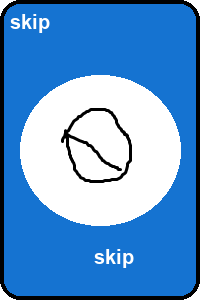
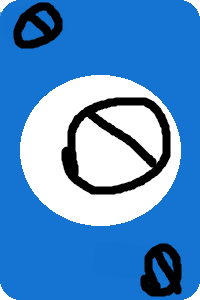
Fixed and finalised uno cards

Changed region(s): [[0.0, 0.0, 1.0, 1.0], [0.3, 0.3, 0.87, 0.66], [0.45, 0.81, 0.69, 0.9]]

diff --git a/tools/generateImages.py b/tools/generateImages.py
@@ -12,30 +12,33 @@ COLORS = {
     "black": "#000000"
 }
 SPECIAL_CARDS = ["skip", "reverse", "+2", "wild", "wild+4"]
-ARROWS_IMAGE_PATH = "arrows.jpg"  # Arrows image path
+ARROWS_IMAGE_PATH = "../uno_cards/arrows.png"  # Arrows image path
 
 def create_base_card(base_color, text, save_path, is_special=False):
     """
-    Creates a base UNO card with rounded corners, center ovals, and proper symbols.
+    Creates a base UNO card with transparent corners, center ovals, and proper symbols.
     Args:
         base_color (str): Card color.
         text (str): Text or symbol to display.
         save_path (str): File path to save the card image.
         is_special (bool): True for special cards like "skip" or "reverse".
     """
-    # Create a blank card image
-    image = Image.new("RGBA", (CARD_WIDTH, CARD_HEIGHT), "white")
+    # Create a blank RGBA card image
+    image = Image.new("RGBA", (CARD_WIDTH, CARD_HEIGHT), (0, 0, 0, 0))
     draw = ImageDraw.Draw(image)
 
-    # Draw card border with rounded corners
-    border_color = "black"
-    draw.rounded_rectangle(
+    # Create a mask for rounded corners
+    mask = Image.new("L", (CARD_WIDTH, CARD_HEIGHT), 0)
+    mask_draw = ImageDraw.Draw(mask)
+    mask_draw.rounded_rectangle(
         [0, 0, CARD_WIDTH - 1, CARD_HEIGHT - 1],
         radius=20,
-        fill=base_color,
-        outline=border_color,
-        width=4
+        fill=255
     )
+
+    # Draw card background with transparent corners
+    card = Image.new("RGBA", (CARD_WIDTH, CARD_HEIGHT), base_color)
+    image.paste(card, (0, 0), mask)
 
     # Add white central oval
     oval_margin = 20
@@ -53,7 +56,7 @@ def create_base_card(base_color, text, save_path, is_special=False):
         font_small = ImageFont.load_default()
 
     # Text color
-    text_color = "black" if base_color == COLORS["yellow"] else "white"
+    text_color = "black"
 
     # Draw large central text
     text_bbox = draw.textbbox((0, 0), text, font=font_large)
@@ -70,7 +73,7 @@ def create_base_card(base_color, text, save_path, is_special=False):
     draw.text((CARD_WIDTH - text_width - corner_offset, CARD_HEIGHT - text_height - corner_offset),
               text, font=font_small, fill=text_color)
 
-    # Save the base card
+    # Save the card
     image.save(save_path)
 
 def overlay_arrows_on_reverse(card_image_path, save_path):
@@ -84,7 +87,7 @@ def overlay_arrows_on_reverse(card_image_path, save_path):
     arrows_image = Image.open(ARROWS_IMAGE_PATH).convert("RGBA")
 
     # Resize arrows to fit the card
-    arrows_resized = arrows_image.resize((CARD_WIDTH // 2, CARD_HEIGHT // 2))
+    arrows_resized = arrows_image.resize((CARD_WIDTH, CARD_HEIGHT))
 
     # Center position for the arrows
     position = (
@@ -120,7 +123,9 @@ def generate_uno_deck(output_folder="uno_cards"):
         for special in ["skip", "reverse", "+2"]:
             file_name = f"{color_name}_{special}.png"
             save_path = os.path.join(output_folder, file_name)
-            create_base_card(color_code, special, save_path)
+            if special == "reverse":
+                create_base_card(color_code, "", save_path)
+            else: create_base_card(color_code, special, save_path)
 
             # If it's a reverse card, overlay the arrows
             if special == "reverse":

diff --git a/tools/fixIMG.py b/tools/fixIMG.py
@@ -1,0 +1,19 @@
+from PIL import Image
+
+numbers = ["_0", "_1", "_2", "_3", "_4", "_5", "_6", "_7", "_8", "_9"]
+colours = ["red", "blue", "green", "yellow"]
+
+for colour in colours:
+    for number in numbers:
+        img = Image.open(f"uno_cards/{colour}{number}.png")
+        img = img.convert("RGBA")
+        datas = img.getdata()
+
+        newData = []
+        for item in datas:
+            if item[0] == 255 and item[1] == 255 and item[2] == 255:
+                newData.append((255,255,255,0))
+            else:
+                newData.append(item)
+        img.putdata(newData)
+        img.save(f"uno_cards/{colour}{number}.png", "PNG")
